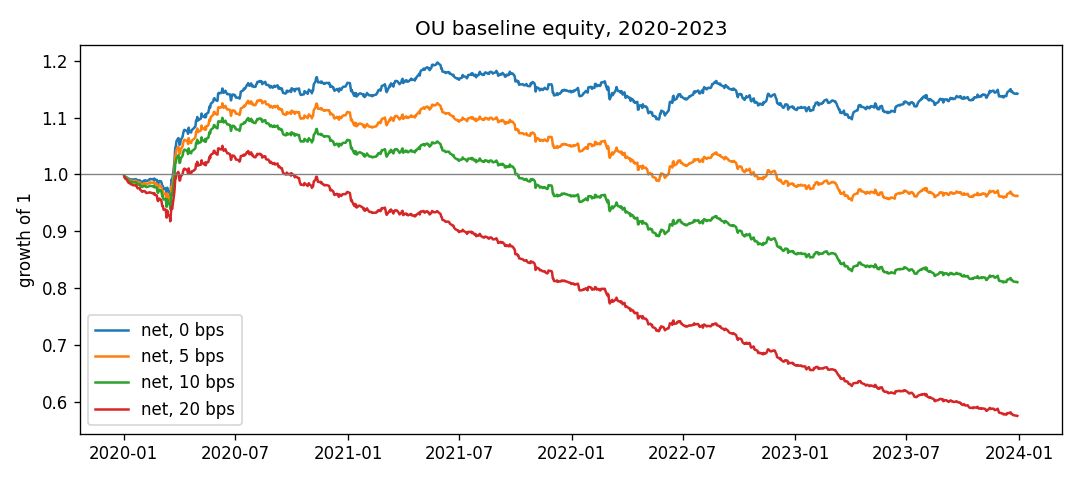
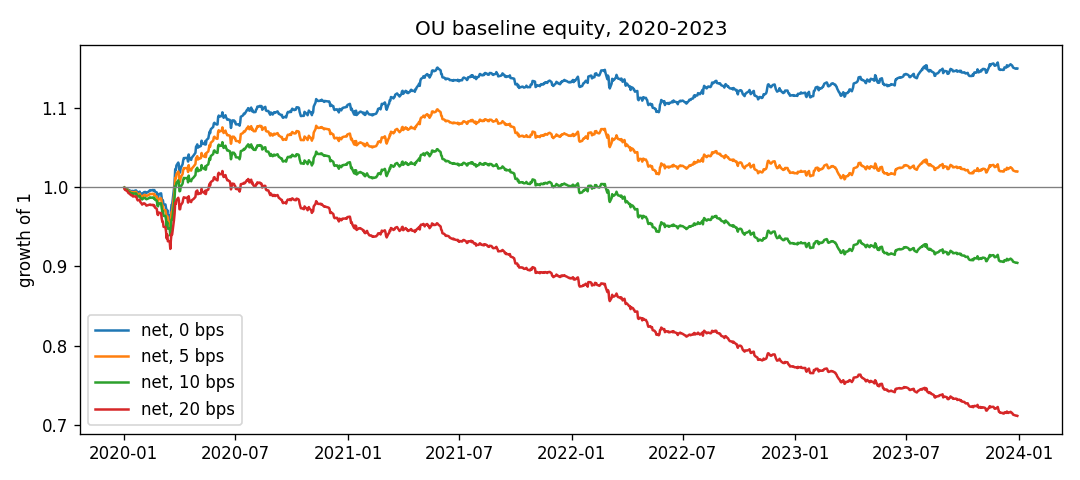
Rerun OU baseline with the corrected portfolio layer

diff --git a/README.md b/README.md
@@ -29,17 +29,18 @@ Strategy performance:
 
 | Cost per unit traded | Ann. return | Ann. vol | Sharpe | Max drawdown |
 |---|---|---|---|---|
-| 0 bps | 3.5% | 5.0% | **0.70** | −8.4% |
-| 5 bps | −0.8% | 5.0% | **−0.17** | −15.7% |
-| 0 bps, 1-day delay | 1.1% | 4.9% | 0.23 | −8.5% |
+| 0 bps | 3.6% | 3.8% | **0.94** | −4.9% |
+| 5 bps | 0.6% | 3.8% | **0.15** | −8.0% |
+| 10 bps | −2.4% | 3.8% | −0.65 | −14.4% |
+| 0 bps, 1-day delay | 1.3% | 3.7% | 0.36 | −6.2% |
 
 ![OU baseline equity](reports/figures/ou_equity_test.png)
 
 **Reading the results:**
-- **The mean-reversion signal is real but small.** The strategy trades about 34% of the book per day, so at 5 bps costs exceed its gross return. This matches the documented decline of classical stat arb.
+- **The mean-reversion signal is real but small.** The strategy trades about 24% of the book per day, so 5 bps costs take most of its gross return and 10 bps take all of it. This matches the documented decline of classical stat arb.
 - **The edge decays within a day.** Most of it disappears with a one-day execution delay.
 - **This is the bar for Phase 2.** The neural models have to keep the edge while trading less, so it survives costs.
-- **Market exposure is low:** beta is 0.04.
+- **Market exposure is low:** beta is 0.05.
 
 **Why the strategy is built this way:** [reports/README.md](reports/README.md) walks through ten figures (data coverage, fat tails, factor structure, residual autocorrelation, half-lives, costs) and the design decision each one supports.
 

diff --git a/reports/README.md b/reports/README.md
@@ -100,10 +100,11 @@ Each figure below comes from the notebooks ([01 data exploration](../notebooks/0
 
 | OU baseline, 2020–2023 | Sharpe | Annual return | Turnover per day |
 |---|---|---|---|
-| Before costs | 0.70 | 3.5% | 34% |
-| After 5 bps | −0.17 | −0.8% | 34% |
-| Before costs, 1-day delay | 0.23 | 1.1% | 34% |
+| Before costs | 0.94 | 3.6% | 24% |
+| After 5 bps | 0.15 | 0.6% | 24% |
+| After 10 bps | −0.65 | −2.4% | 24% |
+| Before costs, 1-day delay | 0.36 | 1.3% | 24% |
 
-**What it shows.** The mean-reversion signal makes money before costs. At 5 bps per unit traded, trading 34% of the book every day costs more than the strategy earns. The edge also fades quickly: most of it is gone if trades are delayed by one day.
+**What it shows.** The mean-reversion signal makes money before costs. Trading 24% of the book every day, 5 bps costs take most of the gross return and 10 bps take all of it. The edge also fades quickly: most of it is gone if trades are delayed by one day.
 
 **What comes next.** Phase 2 trains MLP and Transformer models whose loss is the portfolio's **Sharpe ratio after costs**, using the same portfolio construction and backtester. The question is whether a model optimized this way can keep the signal while trading less.
